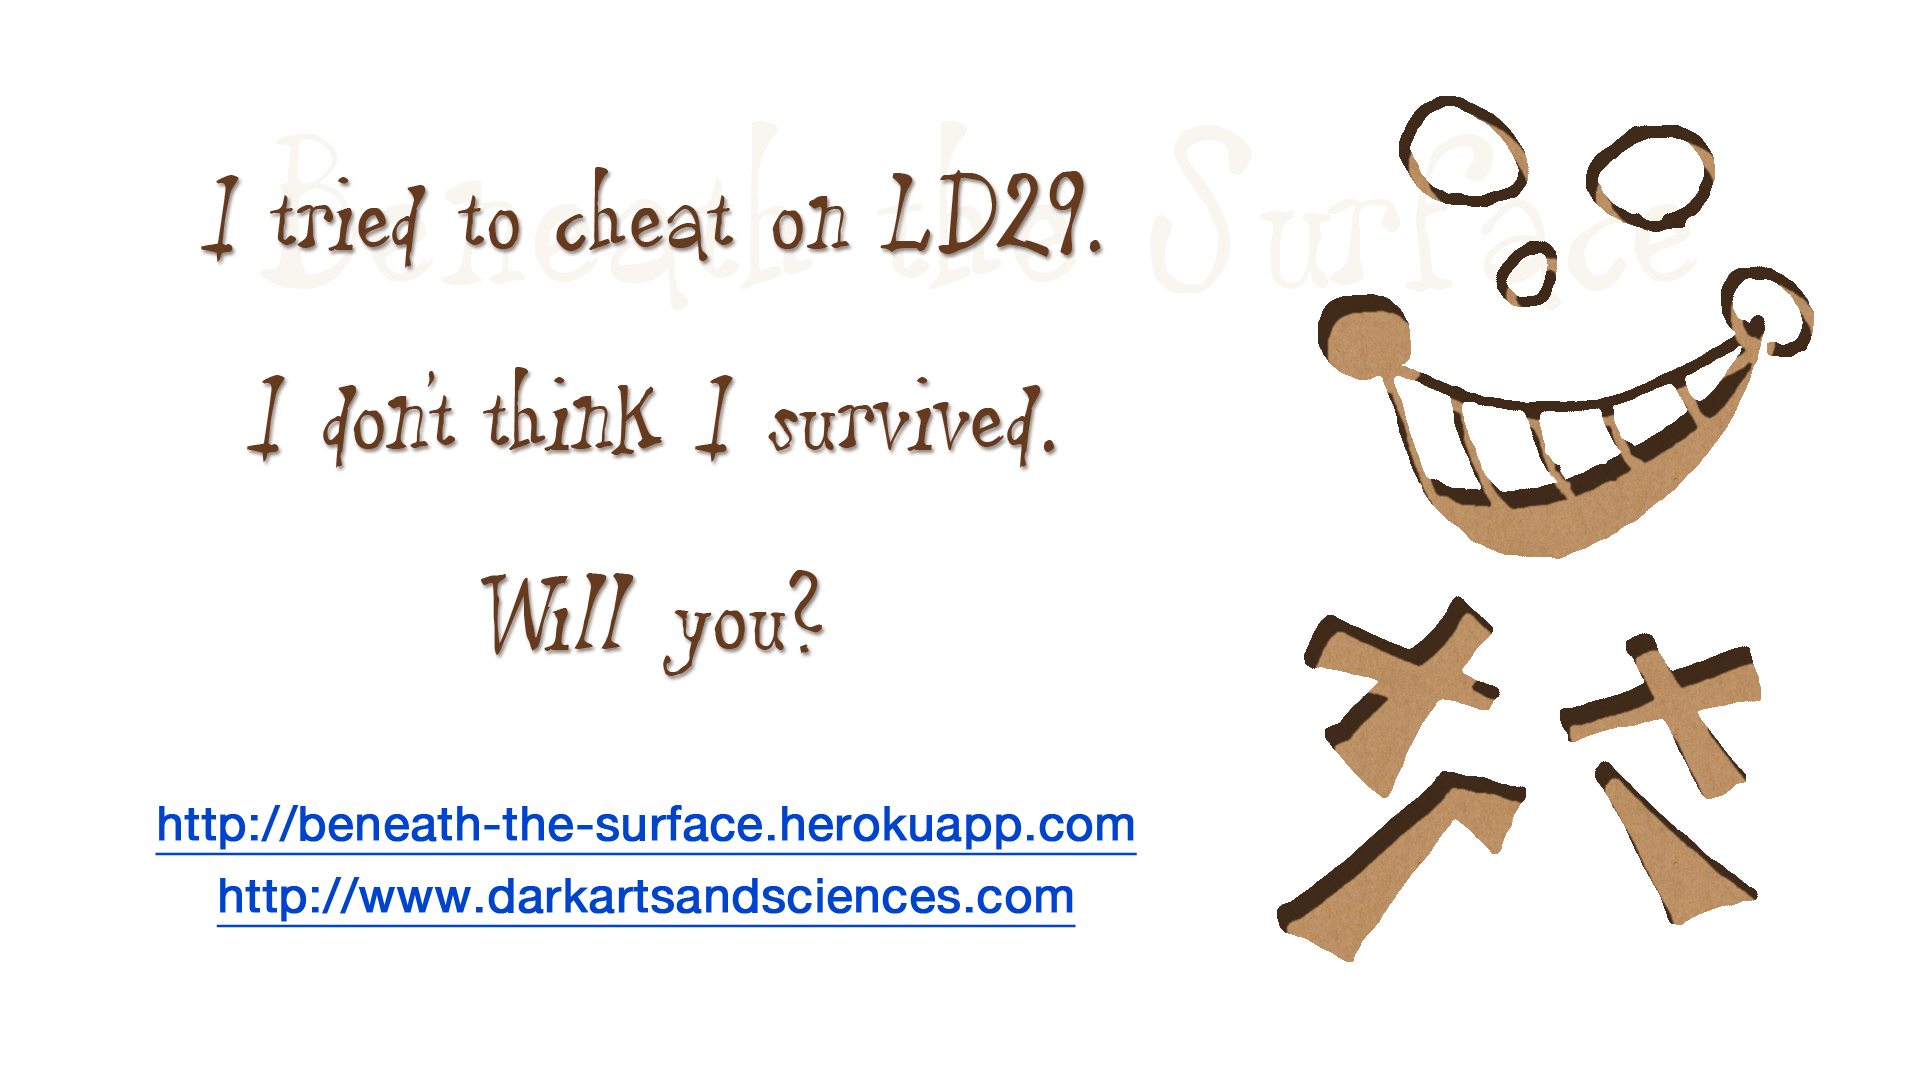
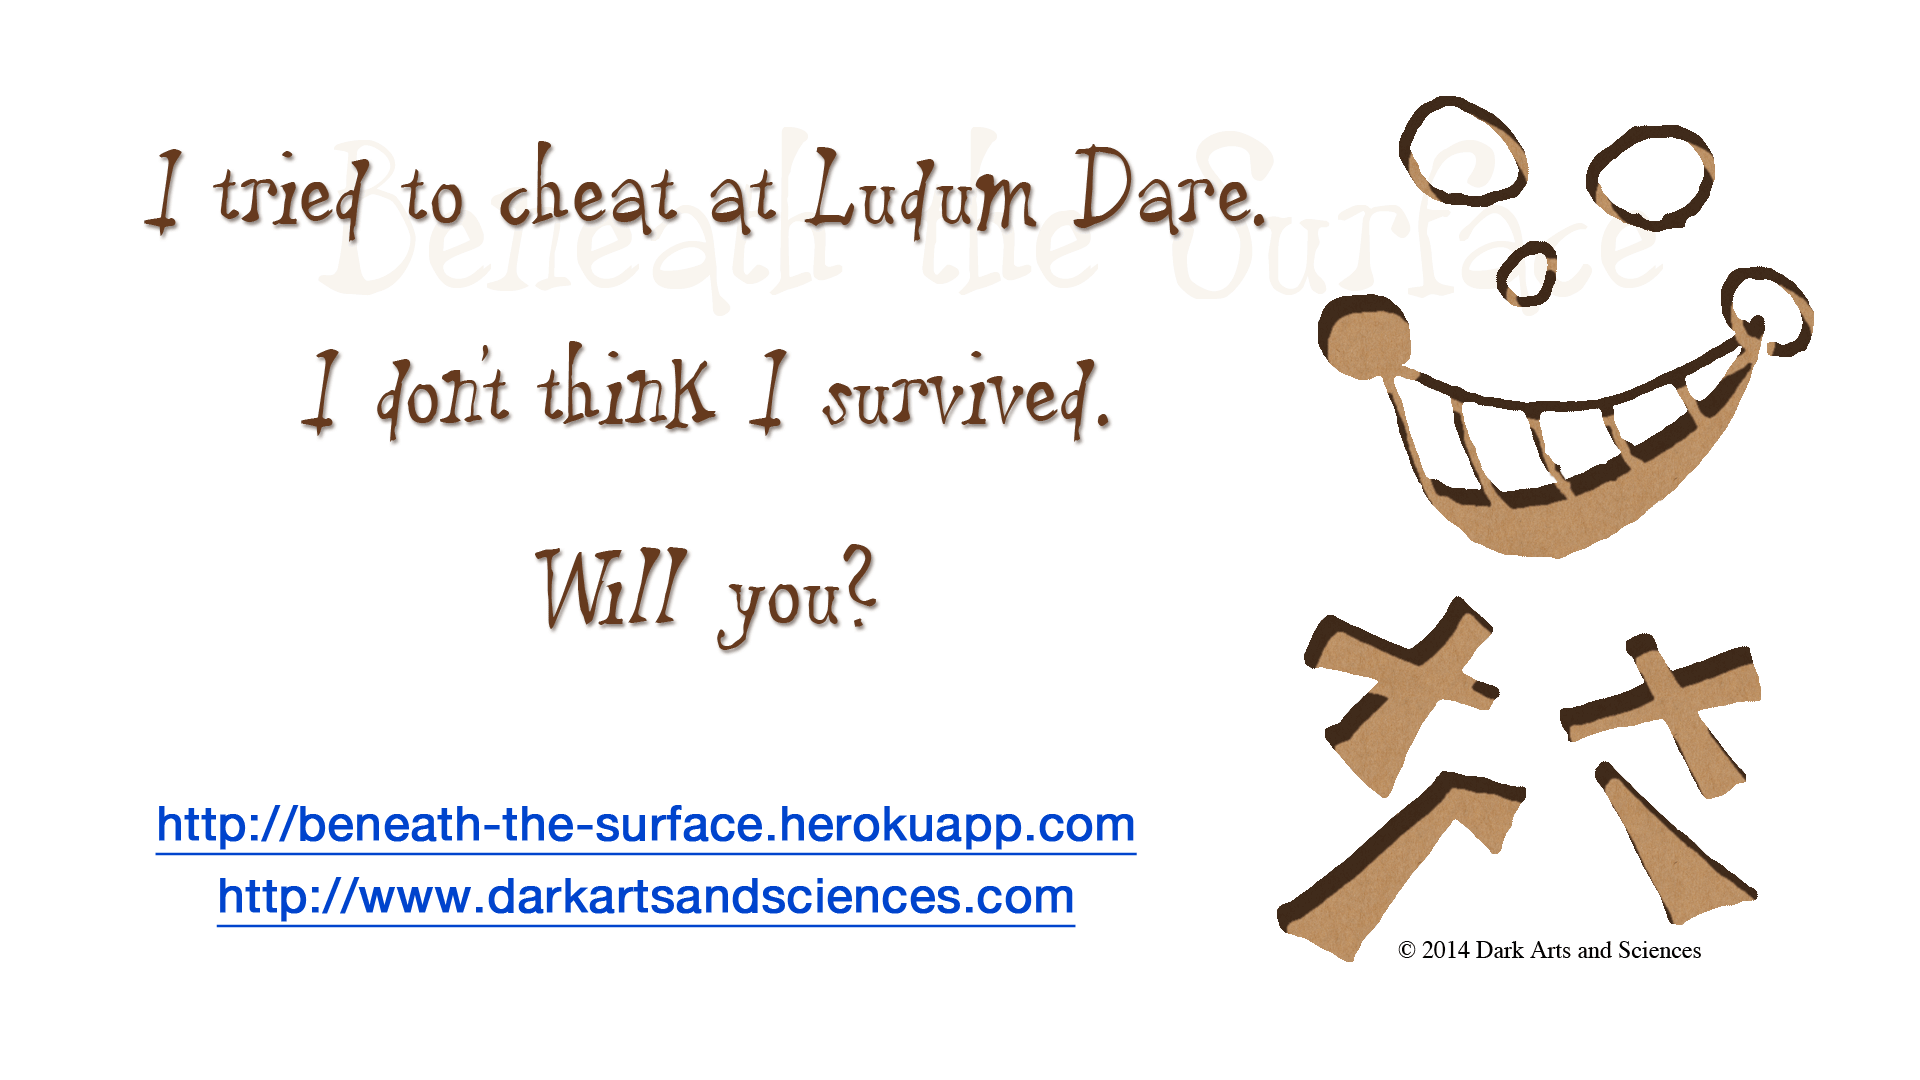
Fixed typo in jam wallpaper.

diff --git a/src/__init__.py b/src/__init__.py
@@ -8,8 +8,8 @@ import src.compo, src.jam
 def index():
 	return render_template('jam_play.html',
 		title='LD29 - Beneath the Surface',
-		links=['<a href="{}">play compo version</a> (finished)'.format(url_for('compo_index')),
-			'<a href="{}">play jam version</a> (finished)'.format(url_for('jam_index')),
+		links=['<a href="{}">play compo version</a> (made in 48 hours)'.format(url_for('compo_index')),
+			'<a href="{}">play jam version</a> (made in 72 hours)'.format(url_for('jam_index')),
 			'play post-competition version (coming "soon")'.format(url_for('jam_index')),
 			'<a href="http://github.com/DarkArtsAndSciences/ld29-beneath-the-surface">source code<a> (GitHub)'],
 		description="""
@@ -27,8 +27,8 @@ def index():
 <p>More story and photos, and (in reverse chronological order):</p>
 
 <ul>
-<li><b>Changed some of the cheat codes.</b> In particular, the code near the end is NOT the same as the compo version. Think harder.</li>
-<li>Wallpaper.</li>
+<li><b>Changed some of the cheats.</b> In particular, the one near the end is NOT the same as in the compo version. Think harder.</li>
+<li>Wallpaper. (later update: fixed typo)</li>
 <li>A special background image beneath certain parts of the story text.</li>
 <li>Favicons.</li>
 <li>Added photographic proof: the story is true, at least up to "I needed a whiteboard and some other stuff that was on sale".</li>
